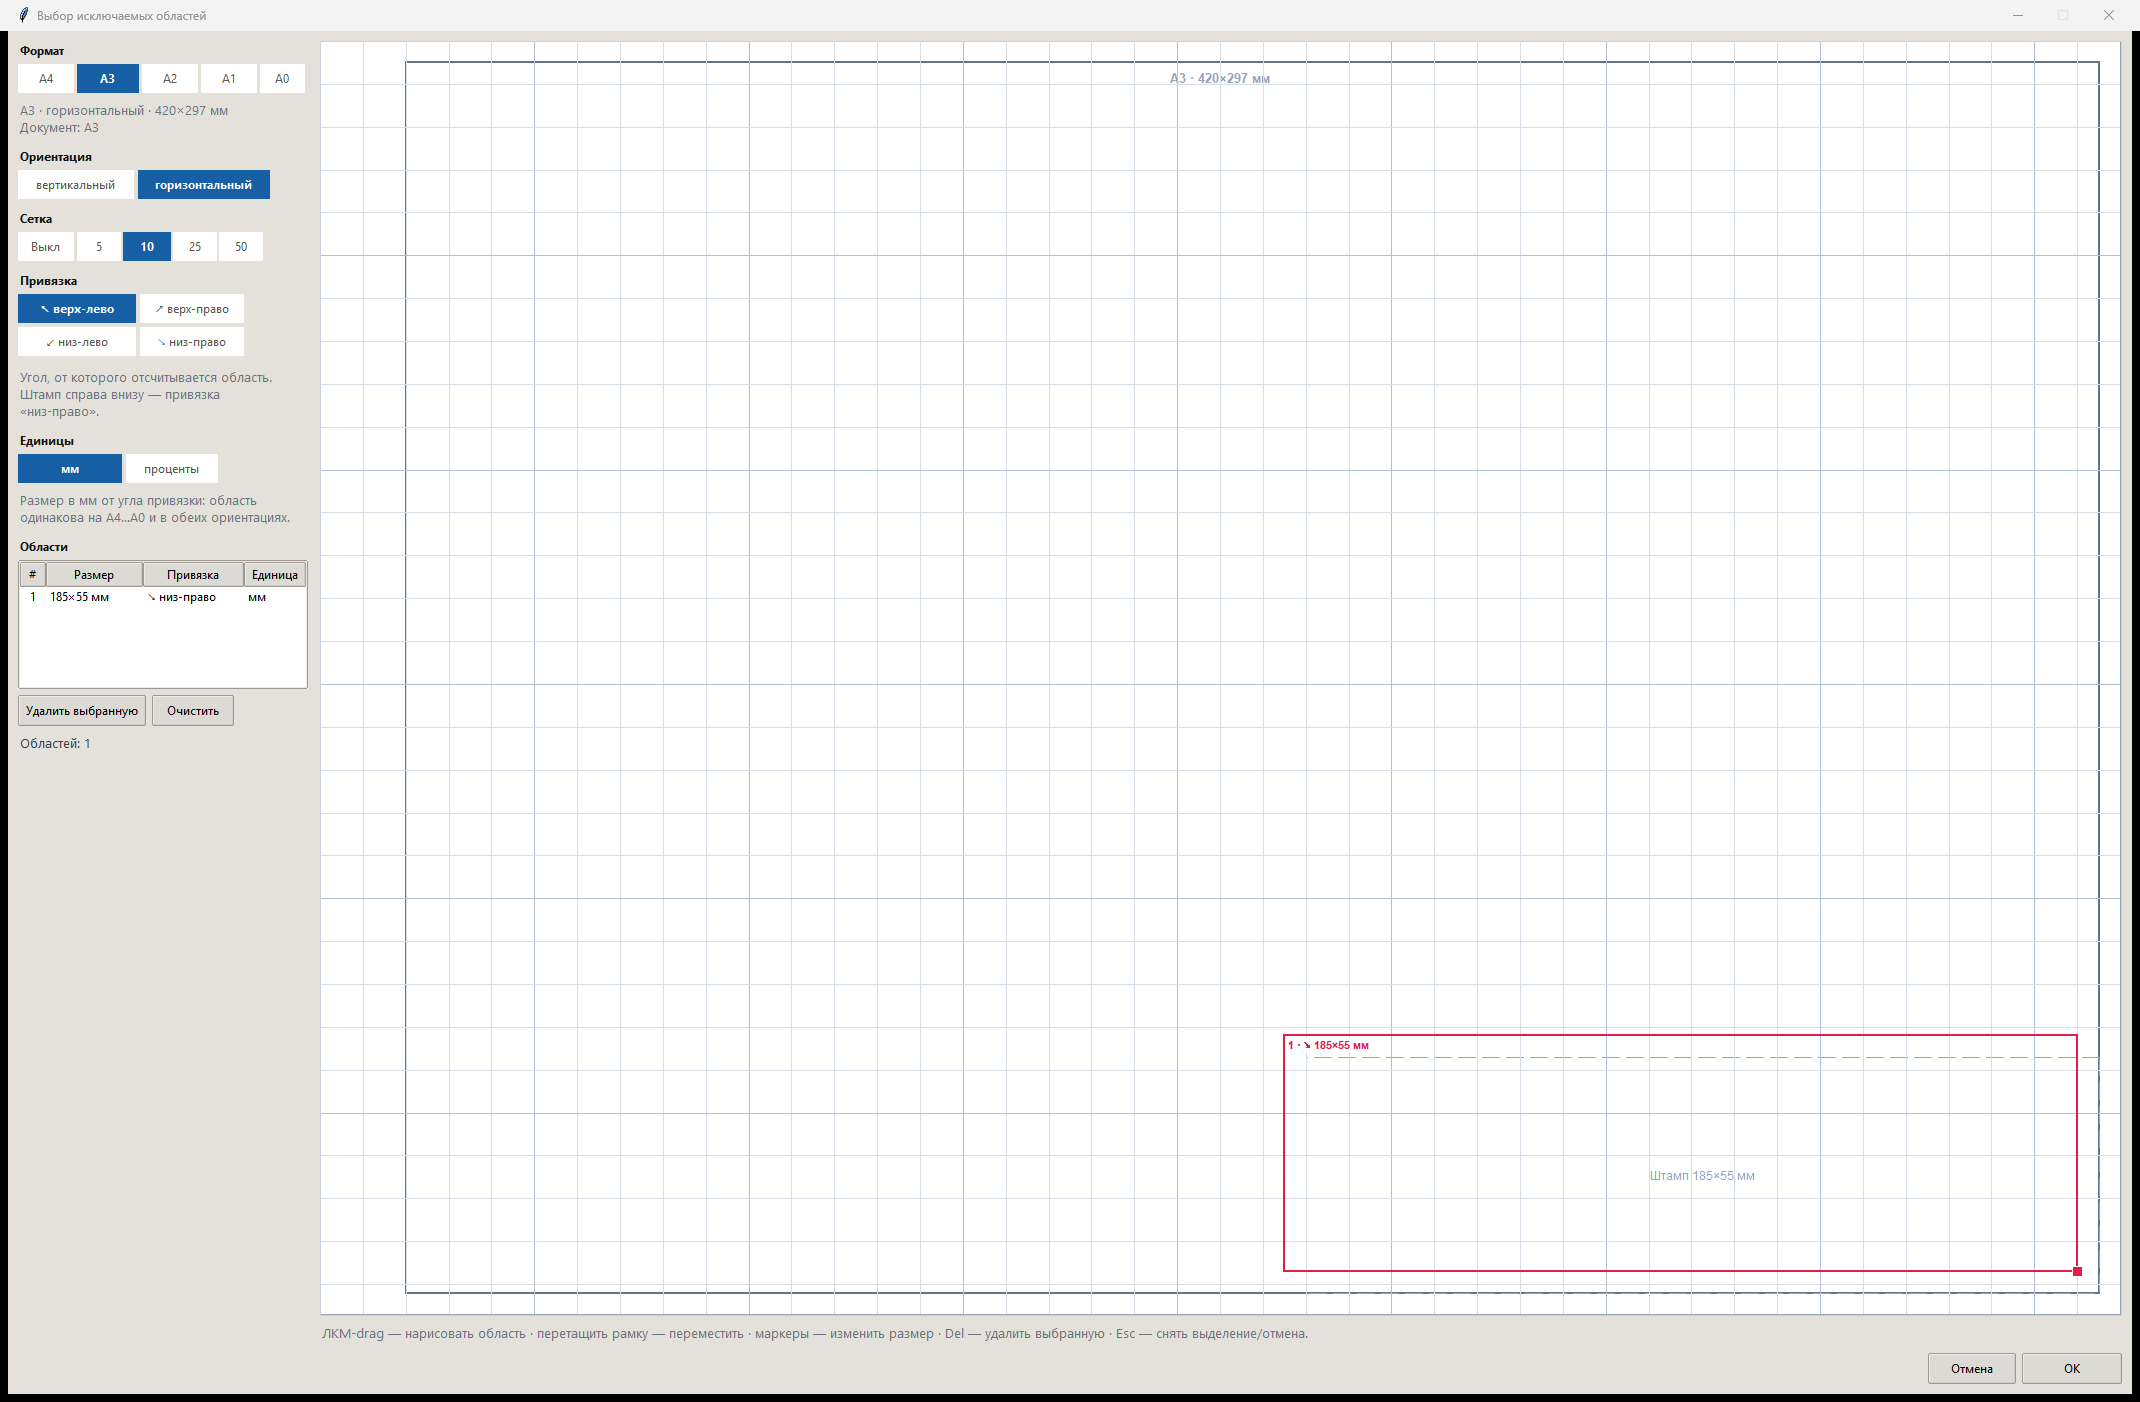
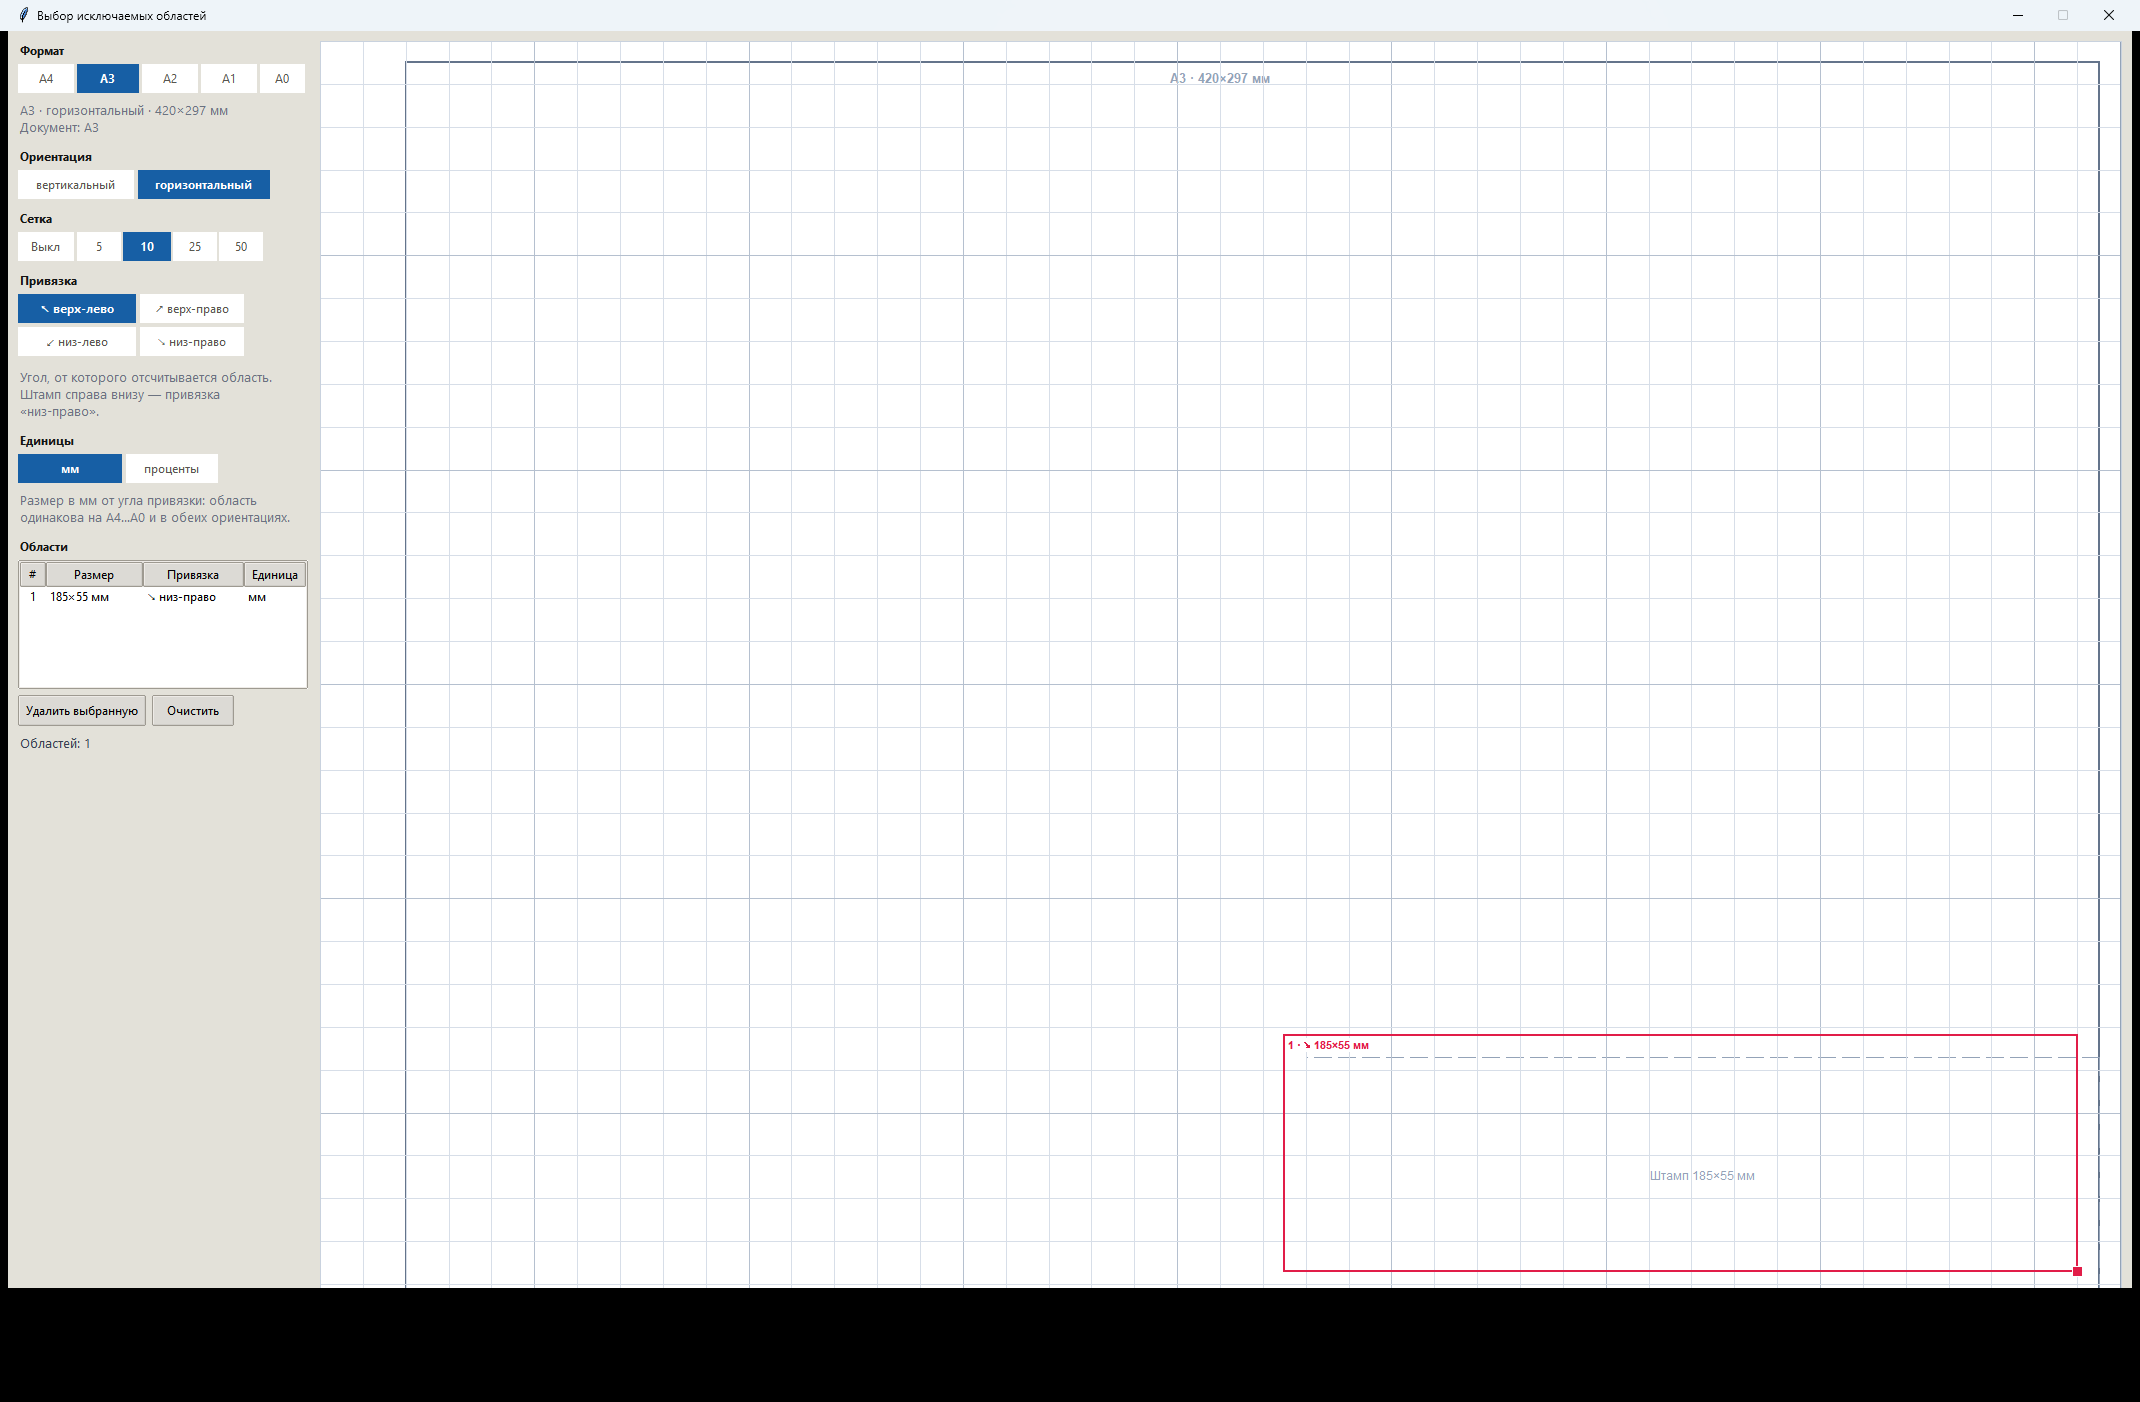
chore: release v0.1.22
The icon (0fa498f) only reaches people who install from a release, so it needs one.

Bumps APP_VERSION, README and CHANGELOG, adds docs/releases/v0.1.22.md, and rebuilds
the README screenshots — they carried the previous version in the title bar, and now
also show the icon.

Changed region(s): [[0.0, 0.9201, 1.0, 1.0]]

diff --git a/pdfcompare_core/constants.py b/pdfcompare_core/constants.py
@@ -51,7 +51,7 @@ LIVE_REPORT_EVENT_PREFIX = "__PDFCOMPARE_LIVE_REPORT__|"
 INTERNAL_REPORT_DIR = "_pdfcompare"
 START_REPORT_FILE = "start.html"
 APP_NAME = "PDFCompare Local"
-APP_VERSION = "0.1.21"
+APP_VERSION = "0.1.22"
 GITHUB_REPO = "mikhalchankasm/AutoPDFCompare"
 UPDATE_CHECK_ENABLED_DEFAULT = True
 UPDATE_CHECK_INTERVAL_HOURS = 1.0

diff --git a/docs/releases/v0.1.22.md b/docs/releases/v0.1.22.md
@@ -1,0 +1,50 @@
+# PDFCompare Local v0.1.22
+
+Своя иконка.
+
+## Было
+
+Иконки не было вообще: перо Tk в заголовке окна и на панели задач, стандартная иконка PyInstaller в проводнике.
+
+## Стало
+
+Глиф — Material Design Icons `select-compare` (Apache-2.0): две панели по бокам от разделителя, ровно то, чем приложение и занимается.
+
+Глиф **белый на залитой акцентной плашке**, а не тёмный на прозрачном фоне. Это не вкусовщина: панель задач в Windows тёмная, и тонкий тёмно-синий глиф на прозрачном фоне в ней просто растворяется. Белое на `#175FA5` читается и на светлой теме, и на тёмной.
+
+## Три места — три разных механизма
+
+Это не одна настройка, а три, и пропустить любую из них — значит получить иконку не везде:
+
+| Где видно | Как задаётся |
+|---|---|
+| Проводник, ярлыки, запись в «Удаление программ» | иконка как **ресурс EXE** (`icon=` в обоих `.spec`) |
+| Мастер установки | `SetupIconFile` в `installer.iss` |
+| Окно приложения и окно выбора зон | **`.ico` едет data-файлом**, Tk грузит его в рантайме |
+
+Третий пункт неочевиден и легко теряется: **Tk не умеет читать иконку из ресурсов EXE.** Без отдельного файла в заголовке остаётся перо Tk, даже когда проводник показывает правильную иконку. `iconbitmap(default=…)` заодно накрывает и окно редактора зон.
+
+## Иконка генерируется, а не рисуется руками
+
+`.ico` закоммичен — сборка не должна зависеть от шага рендеринга, — но он **производный**:
+
+```powershell
+python scripts/make_icon.py    # packaging/icon.svg -> packaging/PDFCompareLocal.ico
+```
+
+Рендерит PyMuPDF, который и так в зависимостях. **Каждый размер рендерится из вектора** (16, 20, 24, 32, 40, 48, 64, 128, 256), а не масштабированием одного растра: Windows берёт 16 px для заголовка и 256 px для «огромных значков», и один растянутый битмап в первом случае мылит, во втором пикселит.
+
+## Проверка
+
+- Иконка в заголовке проверена не только из исходников, но и в **обеих frozen-сборках** — one-file и one-dir. Это существенно: путь к data-файлу там идёт через `sys._MEIPASS`, и это отдельная точка отказа, которая ломается именно в собранном виде, а не при запуске из репозитория.
+- `[System.Drawing.Icon]::ExtractAssociatedIcon` вытаскивает иконку из обоих EXE; `.ico` присутствует в `_internal/packaging/` у one-dir сборки.
+- `lint.ps1` — чисто (36 файлов). `test.ps1` — 214 passed, покрытие 87,96%.
+- Скриншоты README пересняты.
+
+## Заодно
+
+Убран `style.theme_use("vista")` из `main()`: сразу после него `configure_ttk_styles` ставит `clam`, так что строка только выглядела значимой.
+
+## Ограничение
+
+Inno Setup на машине по-прежнему нет: `SetupIconFile` проверен только тем, что CI собирает инсталлятор; сам мастер установки локально не запускался.

diff --git a/CHANGELOG.md b/CHANGELOG.md
@@ -1,5 +1,18 @@
 # Changelog
 
+## v0.1.22 - 2026-07-14
+
+### Added
+- **The app has its own icon.** It had none: Tk's feather in the title bar and the taskbar, the generic PyInstaller icon in Explorer. The glyph is Material Design Icons `select-compare` (Apache-2.0) — two panels either side of a divider, which is what the app does. It sits on a filled accent tile rather than on transparency, because the Windows taskbar is dark and a thin dark-blue glyph on a transparent background vanishes into it.
+
+  Wired in three places, because they are three different mechanisms: the exe carries it as a resource (Explorer, shortcuts, the uninstall entry); the installer wizard gets `SetupIconFile`; and — the non-obvious one — Tk cannot read the exe's resource icon, so the `.ico` also ships as a data file and the window loads it at runtime. Without that last step the title bar keeps Tk's feather even though Explorer shows the right icon.
+
+  The `.ico` is committed (a build must not depend on a rendering step) but generated from `packaging/icon.svg` by `scripts/make_icon.py`, using PyMuPDF, which is already a dependency. Every size is rendered from the vector: Windows takes 16 px for the title bar and 256 px for "extra large icons", and a single upscaled bitmap looks soft in the first and blocky in the last.
+
+### Changed
+- Dropped `style.theme_use("vista")` from `main()`: `configure_ttk_styles` sets `clam` immediately afterwards, so the line only looked like it did something.
+- README screenshots rebuilt (they now carry the icon and the current version).
+
 ## v0.1.21 - 2026-07-14
 
 Three defects the re-check of v0.1.20 found, plus a visual pass over the window.

diff --git a/README.md b/README.md
@@ -2,7 +2,7 @@
 
 > Локальное сравнение двух ревизий PDF (чертежи, схемы, спецификации) с наглядным HTML-отчётом. Windows, без облака — файлы не покидают ваш компьютер.
 
-Current release: `v0.1.21`
+Current release: `v0.1.22`
 
 [![Download Installer][download-setup-badge]][download-setup]
 [![Download Windows EXE][download-exe-badge]][download-exe]
